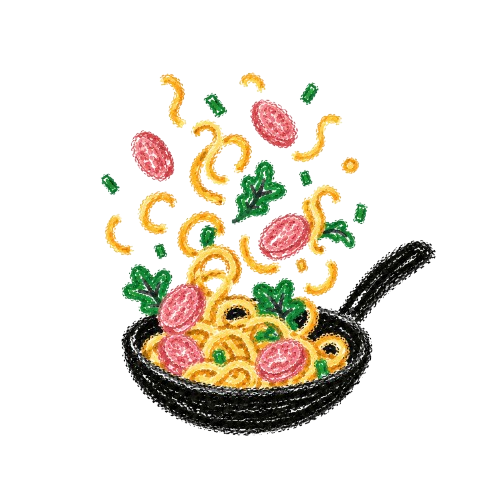
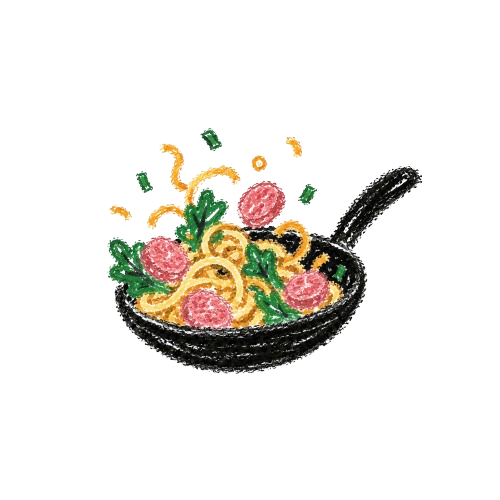
skills page

Changed region(s): [[0.21, 0.15, 0.87, 0.87], [0.69, 0.3, 0.72, 0.36], [0.6, 0.15, 0.63, 0.21]]

diff --git a/src/components/SkillsLine.jsx b/src/components/SkillsLine.jsx
@@ -1,0 +1,158 @@
+import { useEffect, useMemo, useRef, useState } from "react";
+import { useStickerTick } from "./Stickers";
+
+const INITIAL_REPEATS = 4;
+
+const SKILL_STICKERS = [
+  {
+    src: "/images/stickers/skills/python.png",
+    alt: "Python",
+    rotateBy: 10,
+    baseRotation: -8,
+  },
+  {
+    src: "/images/stickers/skills/js.png",
+    alt: "JavaScript",
+    rotateBy: 9,
+    baseRotation: 6,
+  },
+  {
+    src: "/images/stickers/skills/cpp.png",
+    alt: "C++",
+    rotateBy: 11,
+    baseRotation: -5,
+  },
+  {
+    src: "/images/stickers/skills/unity.png",
+    alt: "Unity",
+    rotateBy: 10,
+    baseRotation: 7,
+  },
+  {
+    src: "/images/stickers/skills/java.png",
+    alt: "Java",
+    rotateBy: 9,
+    baseRotation: -6,
+  },
+];
+
+function buildLoopSet(skills, repeatCount) {
+  const set = [];
+  for (let i = 0; i < repeatCount; i++) {
+    skills.forEach((skill, skillIndex) => {
+      set.push({
+        ...skill,
+        key: `${skill.alt}-${i}-${skillIndex}`,
+      });
+    });
+  }
+  return set;
+}
+
+function SkillsLineItem({ skill, tick }) {
+  const swing = tick % 2 === 0 ? skill.rotateBy : -skill.rotateBy;
+  const rotation = skill.baseRotation + swing;
+
+  return (
+    <div
+      className="skills-line__item"
+      style={{ transform: `rotate(${rotation}deg)` }}
+    >
+      <img
+        src={skill.src}
+        alt={skill.alt}
+        className="skills-line__img"
+        draggable={false}
+      />
+    </div>
+  );
+}
+
+function SkillsLine({
+  frameIntervalMs = 750,
+  stepPx: stepPxProp,
+  stepScale = 0.25,
+}) {
+  const tick = useStickerTick(frameIntervalMs);
+  const viewportRef = useRef(null);
+  const trackRef = useRef(null);
+  const [repeatCount, setRepeatCount] = useState(INITIAL_REPEATS);
+  const [stepPx, setStepPx] = useState(stepPxProp ?? 48);
+  const [oneSetWidth, setOneSetWidth] = useState(0);
+
+  const oneSet = useMemo(
+    () => buildLoopSet(SKILL_STICKERS, repeatCount),
+    [repeatCount],
+  );
+
+  const loopItems = useMemo(
+    () => [
+      ...oneSet.map((skill, index) => ({
+        ...skill,
+        key: `${skill.key}-set-a-${index}`,
+      })),
+      ...oneSet.map((skill, index) => ({
+        ...skill,
+        key: `${skill.key}-set-b-${index}`,
+      })),
+    ],
+    [oneSet],
+  );
+
+  useEffect(() => {
+    const viewport = viewportRef.current;
+    const track = trackRef.current;
+    if (!viewport || !track) {
+      return;
+    }
+
+    const measure = () => {
+      const firstItem = track.querySelector(".skills-line__item");
+      if (!firstItem) {
+        return;
+      }
+
+      const gap = Number.parseFloat(getComputedStyle(track).gap) || 0;
+      const itemSlot = firstItem.offsetWidth + gap;
+      const viewportWidth = viewport.offsetWidth;
+      const measuredOneSetWidth = track.scrollWidth / 2;
+
+      if (measuredOneSetWidth < viewportWidth) {
+        setRepeatCount((count) => count + 1);
+        return;
+      }
+
+      setOneSetWidth(measuredOneSetWidth);
+      setStepPx(stepPxProp ?? itemSlot * stepScale);
+    };
+
+    measure();
+
+    const observer = new ResizeObserver(measure);
+    observer.observe(viewport);
+    observer.observe(track);
+
+    return () => observer.disconnect();
+  }, [repeatCount, loopItems, stepPxProp, stepScale]);
+
+  const scroll = oneSetWidth > 0 ? (tick * stepPx) % oneSetWidth : 0;
+  const translateX = oneSetWidth > 0 ? scroll - oneSetWidth : 0;
+
+  return (
+    <section className="skills-line" aria-label="Skills">
+      <div ref={viewportRef} className="skills-line__viewport">
+        <div
+          ref={trackRef}
+          className="skills-line__track"
+          style={{ transform: `translateX(${translateX}px)` }}
+        >
+          {loopItems.map((skill) => (
+            <SkillsLineItem key={skill.key} skill={skill} tick={tick} />
+          ))}
+        </div>
+      </div>
+    </section>
+  );
+}
+
+export default SkillsLine;

diff --git a/src/components/sections/Skills.jsx b/src/components/sections/Skills.jsx
@@ -1,0 +1,33 @@
+import SkillsLine from "../SkillsLine";
+
+function Skills() {
+  return (
+    <section id="skills" className="relative z-20 w-full">
+      <div className="mx-auto flex justify-center items-center w-full max-w-6xl flex-col gap-10 px-6 sm:px-10">
+        <h2 className="crayon-text text-left text-4xl text-slate-800 sm:text-5xl">
+          Skills
+        </h2>
+        <div className="flex flex-col items-center gap-10 lg:flex-row lg:items-center lg:gap-14">
+          <div className="flex w-full justify-center lg:w-2/5 lg:justify-start">
+            <img
+              src="/images/eye_tracking/chud1.png"
+              alt="Portrait"
+              className="w-full max-w-xs object-contain sm:max-w-sm"
+              draggable={false}
+            />
+          </div>
+          <div className="flex w-full flex-col items-start text-left lg:w-3/5">
+            <p className="crayon-text max-w-xl text-lg leading-loose tracking-wide text-slate-800 sm:text-xl">
+              I build with Python, JavaScript, C++, Java, and Unity. From web
+              apps and tools to games and experiments. Always picking up new
+              stacks and shipping projects along the way.
+            </p>
+          </div>
+        </div>
+      </div>
+      <SkillsLine frameIntervalMs={750} />
+    </section>
+  );
+}
+
+export default Skills;

diff --git a/src/components/Stickers.jsx b/src/components/Stickers.jsx
@@ -2,6 +2,20 @@ import { createContext, useContext, useEffect, useMemo, useState } from "react";
 
 const StickersContext = createContext({ tick: 0, frameIntervalMs: 1000 });
 
+export function useStickerTick(frameIntervalMs = 1000) {
+  const [tick, setTick] = useState(0);
+
+  useEffect(() => {
+    const id = window.setInterval(() => {
+      setTick((t) => t + 1);
+    }, frameIntervalMs);
+
+    return () => window.clearInterval(id);
+  }, [frameIntervalMs]);
+
+  return tick;
+}
+
 function toCssUnit(value) {
   return typeof value === "number" ? `${value}px` : value;
 }
@@ -91,15 +105,7 @@ export default function Stickers({
   className = "",
   frameIntervalMs = 1000,
 }) {
-  const [tick, setTick] = useState(0);
-
-  useEffect(() => {
-    const id = window.setInterval(() => {
-      setTick((t) => t + 1);
-    }, frameIntervalMs);
-
-    return () => window.clearInterval(id);
-  }, [frameIntervalMs]);
+  const tick = useStickerTick(frameIntervalMs);
 
   return (
     <StickersContext.Provider value={{ tick, frameIntervalMs }}>

diff --git a/src/App.css b/src/App.css
@@ -29,6 +29,46 @@
   pointer-events: none;
 }
 
+.skills-line {
+  position: relative;
+  z-index: 20;
+  width: 100%;
+  overflow: hidden;
+  padding: 1.25rem 0;
+  pointer-events: none;
+}
+
+.skills-line__viewport {
+  width: 100%;
+  overflow: hidden;
+}
+
+.skills-line__track {
+  display: flex;
+  width: max-content;
+  align-items: center;
+  gap: 2.5rem;
+  will-change: transform;
+}
+
+.skills-line__item {
+  flex-shrink: 0;
+  display: flex;
+  align-items: center;
+  justify-content: center;
+  transform-origin: center center;
+  transition: transform 0.1s ease;
+}
+
+.skills-line__img {
+  width: clamp(6.5rem, 14vw, 9.5rem);
+  height: auto;
+  object-fit: contain;
+  user-select: none;
+  -webkit-user-drag: none;
+  pointer-events: none;
+}
+
 .navbar {
   position: fixed;
   top: 0;

diff --git a/src/App.jsx b/src/App.jsx
@@ -3,6 +3,7 @@ import Navbar from "./components/Navbar";
 import Hero from "./components/sections/Hero";
 import About from "./components/sections/About";
 import Background from "./components/Background";
+import Skills from "./components/sections/Skills";
 
 function App() {
   return (
@@ -10,6 +11,7 @@ function App() {
       <Navbar />
       <Background count={100}>
         <Hero />
+        <Skills />
         {/* <About /> */}
       </Background>
     </>
